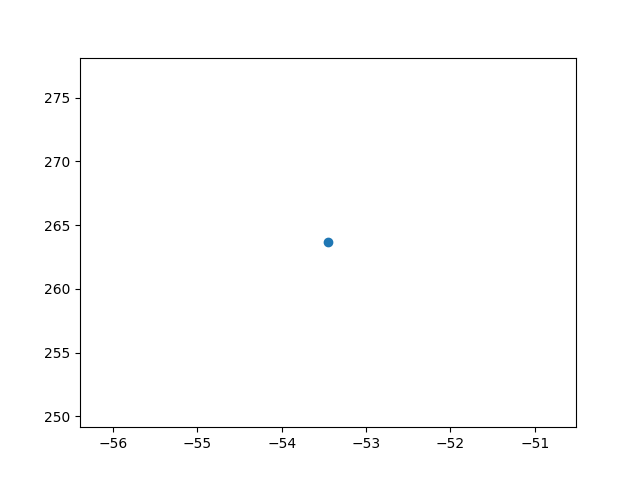
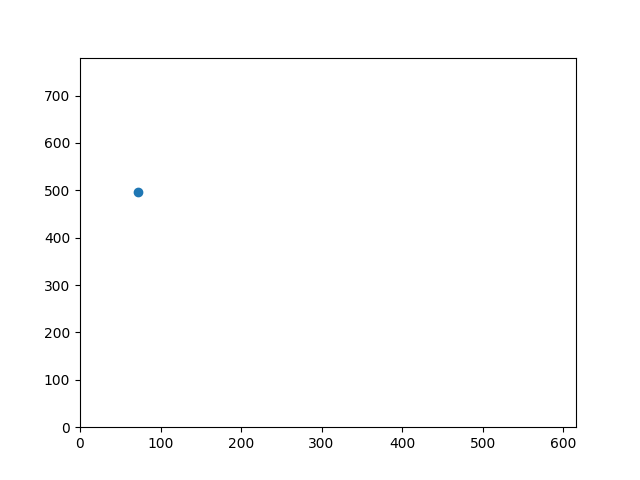
add

diff --git a/量測1196_new.py b/量測1196_new.py
@@ -1,0 +1,96 @@
+import csv
+import 距離1196
+import 角度1196
+import 距離1225
+import 角度1225
+import 距離1307
+import 角度1307
+import 座標換算
+import os
+import matplotlib.pyplot as plt
+from pylab import yticks,np
+import numpy as np
+import time
+import math
+import 座標數據
+import 座標數據
+#ospath=os.path.dirname(os.path.abspath(__file__))
+os.chdir('./data')#位置設定
+offsettime,offsetx,offsety,offsetl=20,0,0,0#樣本數據數設定
+print("輸入1196編號")
+choise=input()
+C=座標數據.choise(choise)
+orl1196=C['l']
+ora1196=C['a']
+orx1196=C['x']
+ory1196=C['y']
+print('請輸入測量次數')
+te=input().split()
+#te=('300').split()
+tme=int(te[0])
+talx,taly,length,angle,pi,po=[],[],[],[],[],[]
+fixx,fixy,fixl=[],[],[]
+i=1
+while i <= tme:
+    length1196 = 距離1196.length()#距離
+    angle1196 = 角度1196.angle()#角度
+    x1196,y1196=座標換算.mathxy(length1196,angle1196)#AOA座標在這裡設定
+    print(x1196,y1196)
+    talx.append(float(x1196))
+    taly.append(float(y1196))
+    length.append(int(length1196))
+    angle.append(angle1196)
+    pi.append(i),po.append(int(orl1196))
+    time.sleep(0.6)#迴圈秒數
+    i=i+1
+for i in range(0,offsettime,1):
+    offsetx=offsetx+talx[i]
+    offsety=offsety+taly[i]
+    offsetl=offsetl+length[i]
+    fixx.append(talx[i])
+    fixy.append(taly[i])
+    fixl.append(length[i])
+offsetx=offsetx/offsettime-orx1196
+offsety=offsety/offsettime-ory1196
+offsetl=offsetl/offsettime-orl1196
+for i in range(offsettime,len(talx),1):
+    fixx.append(talx[i]-offsetx)
+    fixy.append(taly[i]-offsety)
+    fixl.append(length[i]-offsetl)
+with open(choise+'.csv', 'w+',encoding='utf-8-sig', newline='') as csvfile:
+    writer = csv.writer(csvfile)
+    writer.writerow([ '距離' , '角度','修正距離', 'x', 'y', '修正x', '修正y', '距離offset='+str(offsetl),'xoffset='+str(offsetx),'yoffset='+str(offsety), '樣本數據數'+str(offsettime)])  
+    for i in range(0,len(talx),1):
+        writer.writerow([str(format(length[i])), str(format(angle[i])), str(format(fixl[i])), str(format(talx[i])), str(format(taly[i])) , str(format(fixx[i])), str(format(fixy[i])),'', '', '' , '' ])
+#圖表的設定
+print(len(pi),len(length),len(fixl))
+fig = plt.figure(1,figsize=(20,10))
+ax = fig.add_subplot(1, 2, 1)
+#散佈圖
+ax.grid(True)
+
+plt.rcParams['font.sans-serif']=['DFKai-SB']
+plt.title(choise+"距離誤差導正", fontsize=15, x=0.5, y=1.03)
+ax.plot(pi, length,linestyle = 'dotted',label="測量距離")  
+ax.plot(pi, fixl, 'b',label="修正距離")
+ax.plot(pi, po, 'r',label="實際距離")
+plt.xlabel("次數",  fontsize=10, labelpad = 5)
+plt.ylabel("距離",  fontsize=10, labelpad = 10)
+plt.legend()
+
+ax = fig.add_subplot(1, 2, 2)
+
+ax.grid(True)
+plt.xlim(0,750)
+plt.ylim(0,600)
+plt.rcParams['font.sans-serif']=['DFKai-SB']
+plt.title(choise+'座標分布', fontsize=15, x=0.5, y=1.03)
+ax.scatter(talx, taly, color='b',label="測量座標") 
+ax.scatter(int(orx1196), int(ory1196), color='r',label="原本座標",marker='D')
+ax.scatter(fixx, fixy, color='g',label="修正座標",marker='*')
+plt.xlabel("x",  fontsize=10, labelpad = 5)
+plt.ylabel("y",  fontsize=10, labelpad = 2)
+plt.legend()
+plt.savefig(choise+".jpg",transparent = True)
+plt.show()
+#plt.savefig(cm+'公分誤差導正.png')

diff --git a/座標1196.py b/座標1196.py
@@ -1,6 +1,7 @@
 import requests
 import time
 import math
+import csv
 import openpyxl
 import 角度1196
 import 距離1196
@@ -11,6 +12,12 @@ def xy1196(d1196,a1196):
     y = d1196 * math.cos(a1196)
     x=round(x,2)
     y=round(y,2)
+    x=x+150
+    y=y+17
+ 
+
+    
+
     #   print(x,y)
     #  time.sleep(1)
     return x,y

diff --git a/畫圖1.py b/畫圖1.py
@@ -3,8 +3,9 @@ def a1(x,y):
     # 設定座標點的x, y值
 
     # 繪製座標點圖
-    plt.xlim(0,1000)
-    plt.ylim(0,1000)
+    plt.xlim(0,616)
+    plt.ylim(0,780)
+
     plt.scatter(x, y)
     save_path = 'example.png'
     plt.savefig(save_path)

diff --git a/座標匯入excel.py b/座標匯入excel.py
@@ -1,0 +1,12 @@
+import requests
+import time
+import openpyxl
+import csv
+import 距離1196
+
+def xy(x):
+    r=zip(x)
+    with open('xy.csv', "w") as s:
+        w = csv.writer(s)
+        for row in r:
+            w.writerow(row)

diff --git a/test.py b/test.py
@@ -17,7 +17,7 @@ while i<n:
     #print('4')
     ##角度轉弧度a1196=math.radians(a1196)
     x,y=座標1196.xy1196(d1196,a1196)
-    print(x+150,y+17)
+    print(x,y)
     畫圖1.a1(x,y)
 
 
